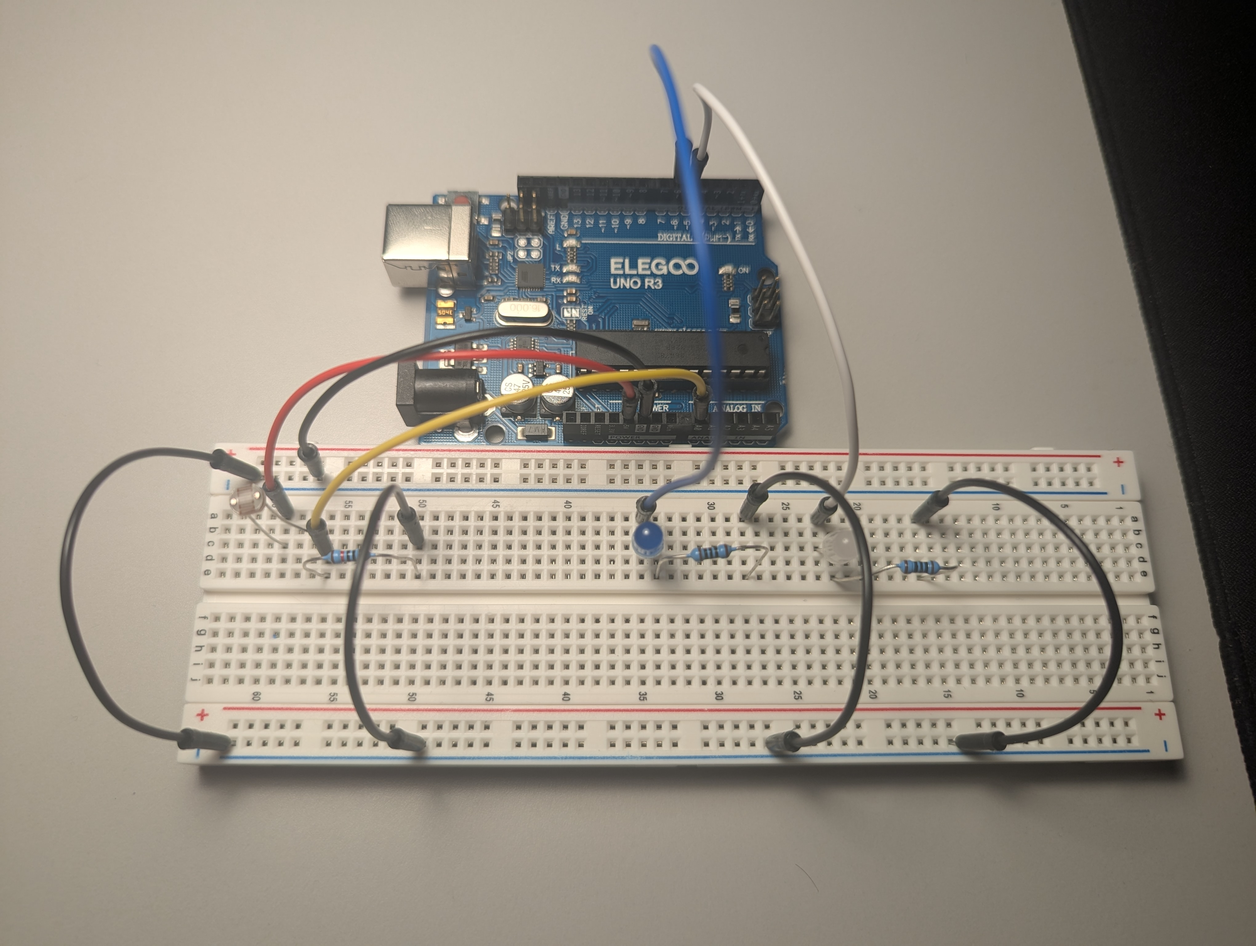
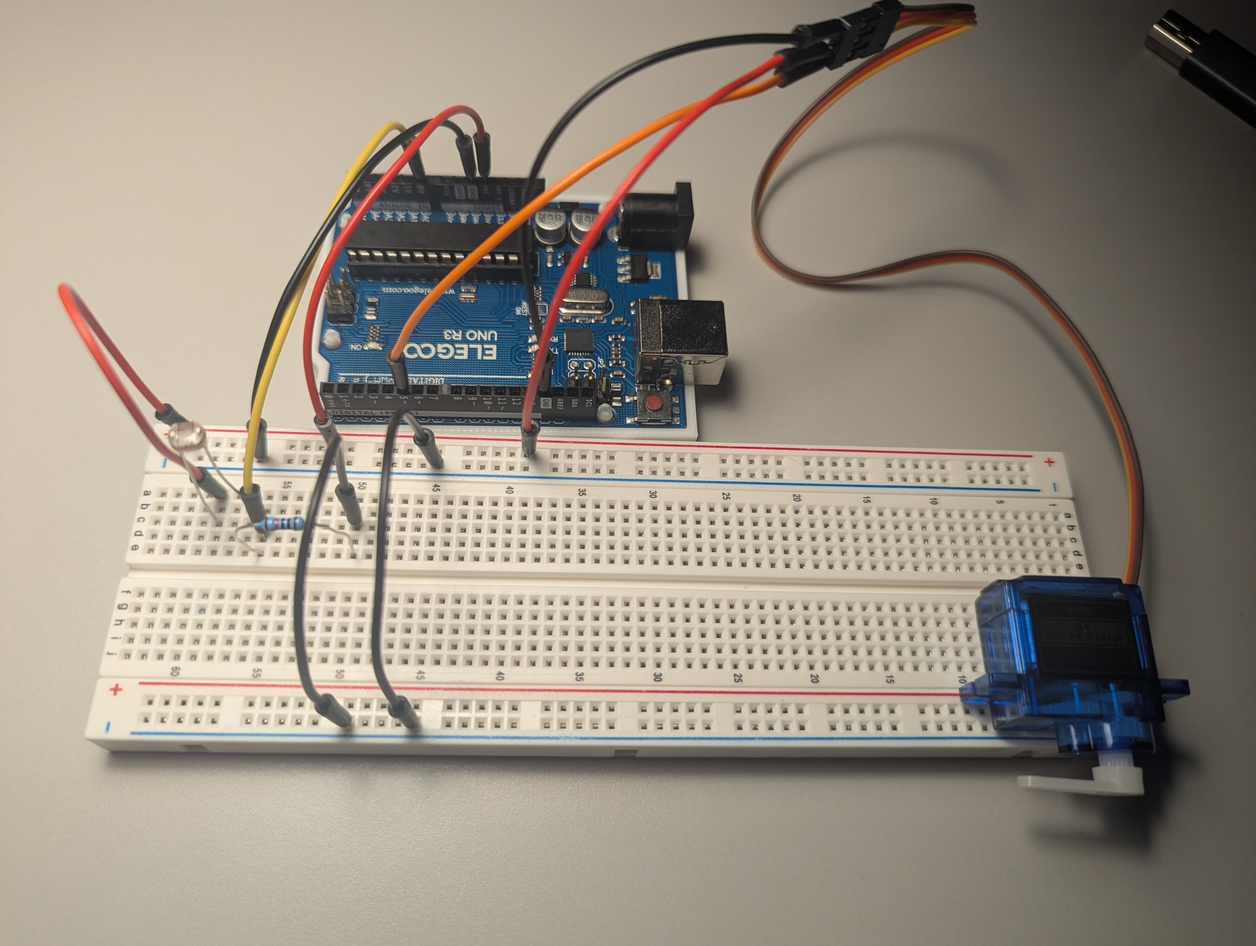
Fully fixed A3 output

diff --git a/a3.html b/a3.html
@@ -28,13 +28,12 @@
         <div>
           <section>
             <div class="schematicInner">
-              <img src="imgs/BlueWhiteLEDs.jpg">
+              <img src="imgs/IOServio.jpg">
               <article>
-                For both the Blue and White LED schematics, they are connected
-                to their respective PWM pins (pins 5 and 6), each with a 100-ohm
-                resistor. Given the known voltage drop for their color, which is
-                3.3V, 85 ohms of resistance is required. However, the closest
-                standard resistor value available is 100 ohms, so it is used.
+                For the servo schematic, it is connect to its respective PWM pin
+                (pin 5) in order to be given a PWM signal of 0-255 by the photoresistor.
+                Furthermore, is also being connected to a 5V track and ground
+                provided by the Arduino.
               </article>
             </div>
           </section>
@@ -43,12 +42,11 @@
             <div class="schematicInner">
               <img src="imgs/IOPhotoresistor.jpg">
               <article>
-                For the photoresistor schematic it differs in comparison to the
-                simple LEDs. Connected to the 5V in order to always provide power
-                to the photoresistor, which is then read via an analog pin inside
-                the voltage divider. As we are simply reading an analog signal
-                from the photoresistor, we use a 10k-ohm resistor in order to
-                ensure the circuit is both safe and energy efficient.
+                For the photoresistor schematic it is connected to the 5V rail in
+                order to always receive a constant source of power for the photoresistor,
+                which is then read via an analog pin inside the voltage divider. As we are
+                simply reading an analog signal from the photoresistor, we use a 10k-ohm
+                resistor in order to ensure the circuit is both safe and energy efficient.
               </article>
             </div>
           </section>
@@ -64,10 +62,12 @@
           <div class="questionsInner">
             <article>
               In the voltage divider circuit, the measured voltage changes depending on the state of
-              the photoresistor. With the light off, the blue LED is off, and the white LED is on, the
-              voltage at the divider is 0.24V. When the light is on, the blue LED is on, the white LED is off,
-              and the voltage increases to 4.32V. These readings reflect the circuit's response to
-              the photoresistor's state role in controlling the voltage divider output based on light conditions.
+              the photoresistor. When the light is off, the servo is at angle 0, and the voltage at
+              the divider is 0.40V as measured with a multimeter. When the light is on, the servo
+              moves to angle 180, and the voltage at the divider increases to 4.42V. These readings
+              demonstrate the circuit's response to the photoresistor's role in controlling the
+              voltage divider output and dynamically adjusting the servo's position based on light
+              conditions.
             </article>
           </div>
         </section>
@@ -80,22 +80,23 @@
             /*
             Octavio Badillo
             1/27/2025
-            A program that calibrates a photoresistor and dynamically controls the brightness
-            of two LEDs on a breadboard based on the photoresistor's readings. The program
-            recalibrates the sensor range if the input deviates from a specfied allowed margin of
+            A program that calibrates a photoresistor and dynamically controls the position
+            of a servo motor on a breadboard based on the photoresistor's readings. The program
+            recalibrates the sensor range if the input deviates from a specified allowed margin of
             error.
             */
 
+            #include <Servo.h> // Servo library
+
             // Constants
-            const int whiteLED = 5; // White LED pin
-            const int blueLED = 6; // Blue LED pin
-            const int leds[] = {whiteLED, blueLED}; // Array of LED pins
+            const int servoPin = 5;  // Servo signal pin
 
             // Variables
             int timer = 500; // Delay time between readings during calibration
             int sensorMax = 0; // Maximum sensor value during calibration
             int sensorMin = 1023; // Minimum sensor value during calibration
             int errorMargin = 100; // Margin of Error for calibration
+            Servo servo; // Servo object to control the servo motor
 
             // Function to calibrate the sensor by finding min and max values
             void calibration() {
@@ -130,13 +131,11 @@
               Serial.begin(9600); // Initialize serial communication at 9600 baud
               calibration(); // Initial calibration
 
-              // Set the LED pins as OUTPUT
-              for (int i = 0; i < 2; i++) {
-                pinMode(leds[i], OUTPUT);
-              }
+              // Attach the servo to its set PWM pin (5)
+              servo.attach(servoPin);
             }
 
-            // Continuously adjust LED brightness based on sensor readings, with dynamic recalibration
+            // Continuously adjust servo position based on sensor readings, with dynamic recalibration
             void loop() {
               int val = analogRead(A0); // Read the analog value from pin A0
 
@@ -147,12 +146,15 @@
 
               // Constrain the sensor value to the calibrated range
               int sensVal = constrain(val, sensorMin, sensorMax);
-              // Map the constrained value to the PWM range (0-255)
-              int outVal = map(sensVal, sensorMin, sensorMax, 255, 0);
+              // Map the constrained value to the servo's angle range (0-180 degrees)
+              int angle = map(sensVal, sensorMin, sensorMax, 0, 180);
 
-              // Write the mapped values to LEDs
-              analogWrite(blueLED, 255 - outVal); // Blue LED is opposite of white LED
-              analogWrite(whiteLED, outVal); // White LED brightness is proportional to sensor value
+              // Print calculated sero angle
+              Serial.print("Current Angle: ");
+              Serial.println(angle);
+
+              // Move the servo to the calculated angle
+              servo.write(angle);
             }
           </pre>
         </section>
@@ -173,29 +175,33 @@
           Calibration Results:
           Sensor Min: 260
           Sensor Max: 948
+          Current Angle: 179
+          Current Angle: 0
         </section>
         <article>
-          The chosen pin values for the LEDs (5 and 6) correspond to their PWM capability, which is
-          essential for dynamically adjusting brightness. The analog pin A0 is used because it’s
-          where the photoresistor is connected, allowing the circuit to read variable resistance
-          values as analog inputs.
+          The chosen pin value for the servo (pin 5) corresponds to its PWM capability, which is
+          essential for controlling the servo's position. The analog pin A0 is used because it’s
+          where the photoresistor is connected, allowing the circuit to read variable resistance values
+          as analog inputs.
           <br><br>
-          The timer and errorMargin are user-specified values. The timer is set to a duration of
-          (500ms) to ensure there is enough time for user input, such as adjusting light conditions
-          during calibration, enabling the program to determine accurate sensorMin and sensorMax values.
+          The timer and errorMargin are user-specified values. The timer is set to a duration of (500ms)
+          to ensure there is enough time for user input, such as adjusting light conditions during
+          calibration, enabling the program to determine accurate sensorMin and sensorMax values.
           Without this delay, the program would complete calibration too quickly, potentially
           resulting in incorrect min/max values. The errorMargin sets a threshold for detecting
           significant deviations in sensor readings, triggering recalibration only when necessary.
           <br><br>
-          The constrain() function ensures that the current sensor value remains within the
-          calibrated range, preventing unexpected outlier values from affecting LED behavior. After
-          constraining, the map() function scales the sensor value to the PWM range (0–255), where
-          255 represents maximum brightness and 0 represents the LED being off.
+          The constrain() function ensures that the current sensor value remains within the calibrated
+          range, preventing unexpected outlier values from affecting the servo’s behavior. After
+          constraining, the map() function scales the sensor value to the servo's angle range
+          (0–180 degrees), where 0 represents the servo’s minimum position and 180 represents its
+          maximum position.
           <br><br>
-          The LED output logic is straightforward: the blue LED's brightness is the inverse of the white LED's
-          brightness. As the white LED gets brighter (outVal), the blue LED gets dimmer (255 - outVal),
-          creating a balanced visual effect.
-          </article>
+          The servo output logic is straightforward: the servo’s position is dynamically adjusted
+          based on the mapped value from the photoresistor’s readings. This ensures the servo responds
+          smoothly to changes in light levels, demonstrating a clear relationship between the photoresistor
+          input and the servo's motion.
+       </article>
       </div>
 
       <div class="circuit">
